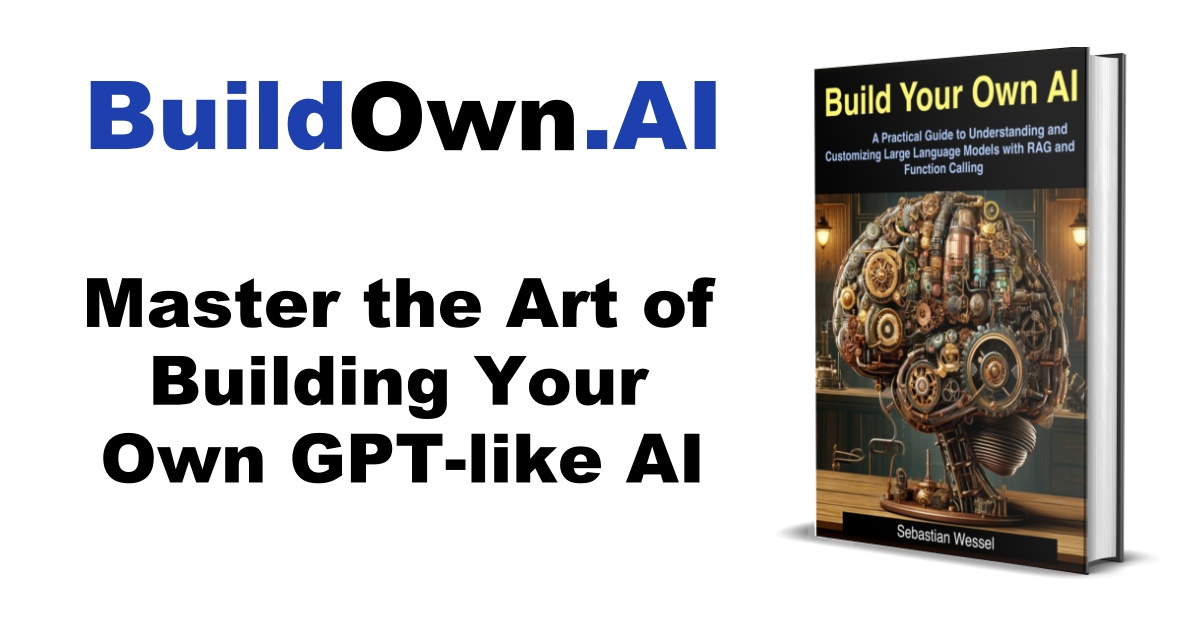
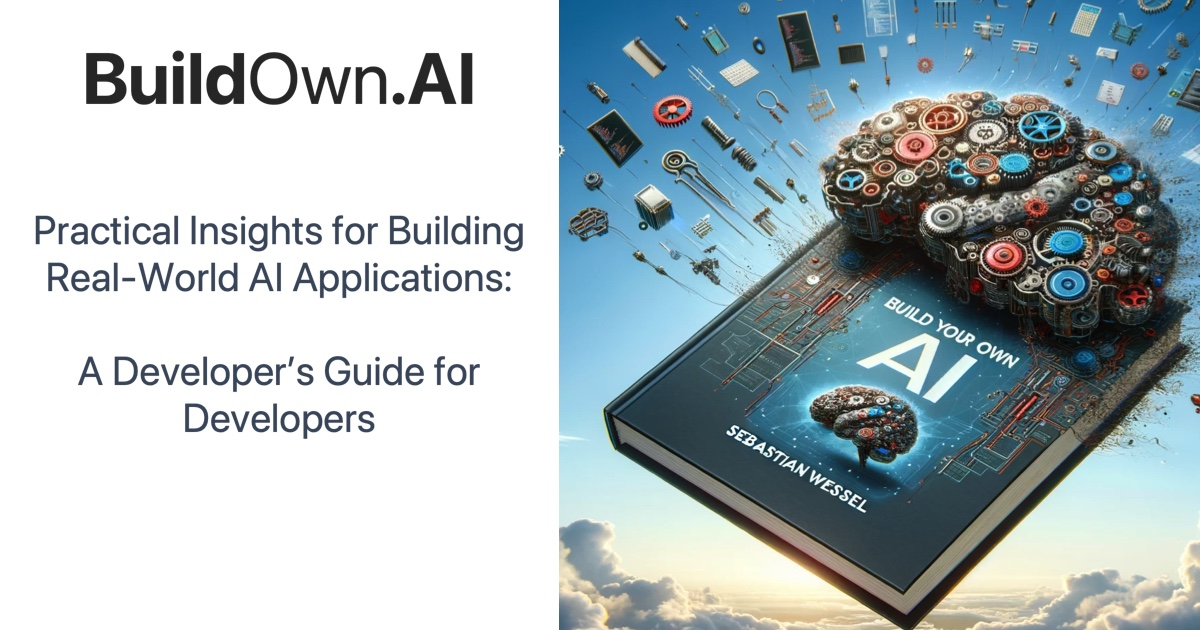
chore: update webpage

diff --git a/.nuxt/nuxt.d.ts b/.nuxt/nuxt.d.ts
@@ -1,15 +1,15 @@
 // Generated by nuxi
-/// <reference types="@vueuse/nuxt" />
-/// <reference types="@nuxtjs/tailwindcss" />
-/// <reference types="nitro-cloudflare-dev" />
-/// <reference types="nuxt-icon" />
-/// <reference types="nuxt-simple-robots" />
-/// <reference types="@nuxt/devtools" />
-/// <reference types="nuxt-link-checker" />
 /// <reference types="@nuxt/content" />
 /// <reference types="@nuxtjs/sitemap" />
-/// <reference types="@nuxt/telemetry" />
+/// <reference types="@nuxtjs/tailwindcss" />
+/// <reference types="nuxt-simple-robots" />
+/// <reference types="nuxt-link-checker" />
+/// <reference types="nitro-cloudflare-dev" />
+/// <reference types="nuxt-icon" />
+/// <reference types="@vueuse/nuxt" />
+/// <reference types="@nuxt/devtools" />
 /// <reference types="@nuxtjs/turnstile" />
+/// <reference types="@nuxt/telemetry" />
 /// <reference types="nuxt" />
 /// <reference path="types/app-defaults.d.ts" />
 /// <reference path="types/plugins.d.ts" />

diff --git a/components/landing/Features.vue b/components/landing/Features.vue
@@ -60,7 +60,7 @@ const features = [
 <template>
   <section>
     <div class="gap-8 items-center py-8 px-4 mx-auto max-w-screen-xl xl:gap-16 md:grid md:grid-cols-2 sm:py-16 lg:px-6">
-      <img class="w-full scroll-animate fade-from-left" src="/assets/img/developers.webp" alt="dashboard image" />
+      <img class="w-full scroll-animate fade-from-left" src="/assets/img/developers.jpg" alt="dashboard image" />
       <div class="mt-4 md:mt-0 scroll-animate fade-from-right">
         <h2 class="mb-4 text-4xl tracking-tight font-extrabold">
           Who Is This Book For?

diff --git a/components/landing/Hero.vue b/components/landing/Hero.vue
@@ -2,7 +2,7 @@
   <main class="grid lg:grid-cols-2 place-items-center pt-16 pb-8 md:pt-8">
     <div class="p-24 md:order-1 hidden md:block">
       <div class="hover-animate">
-        <img class="fly-in" src="~/assets/img/hero.png" alt="Build Your Own AI Book" loading="eager" width="512"
+        <img class="fly-in" src="~/assets/img/hero2.png" alt="Build Your Own AI Book" loading="eager" width="512"
           height="512" />
       </div>
     </div>
